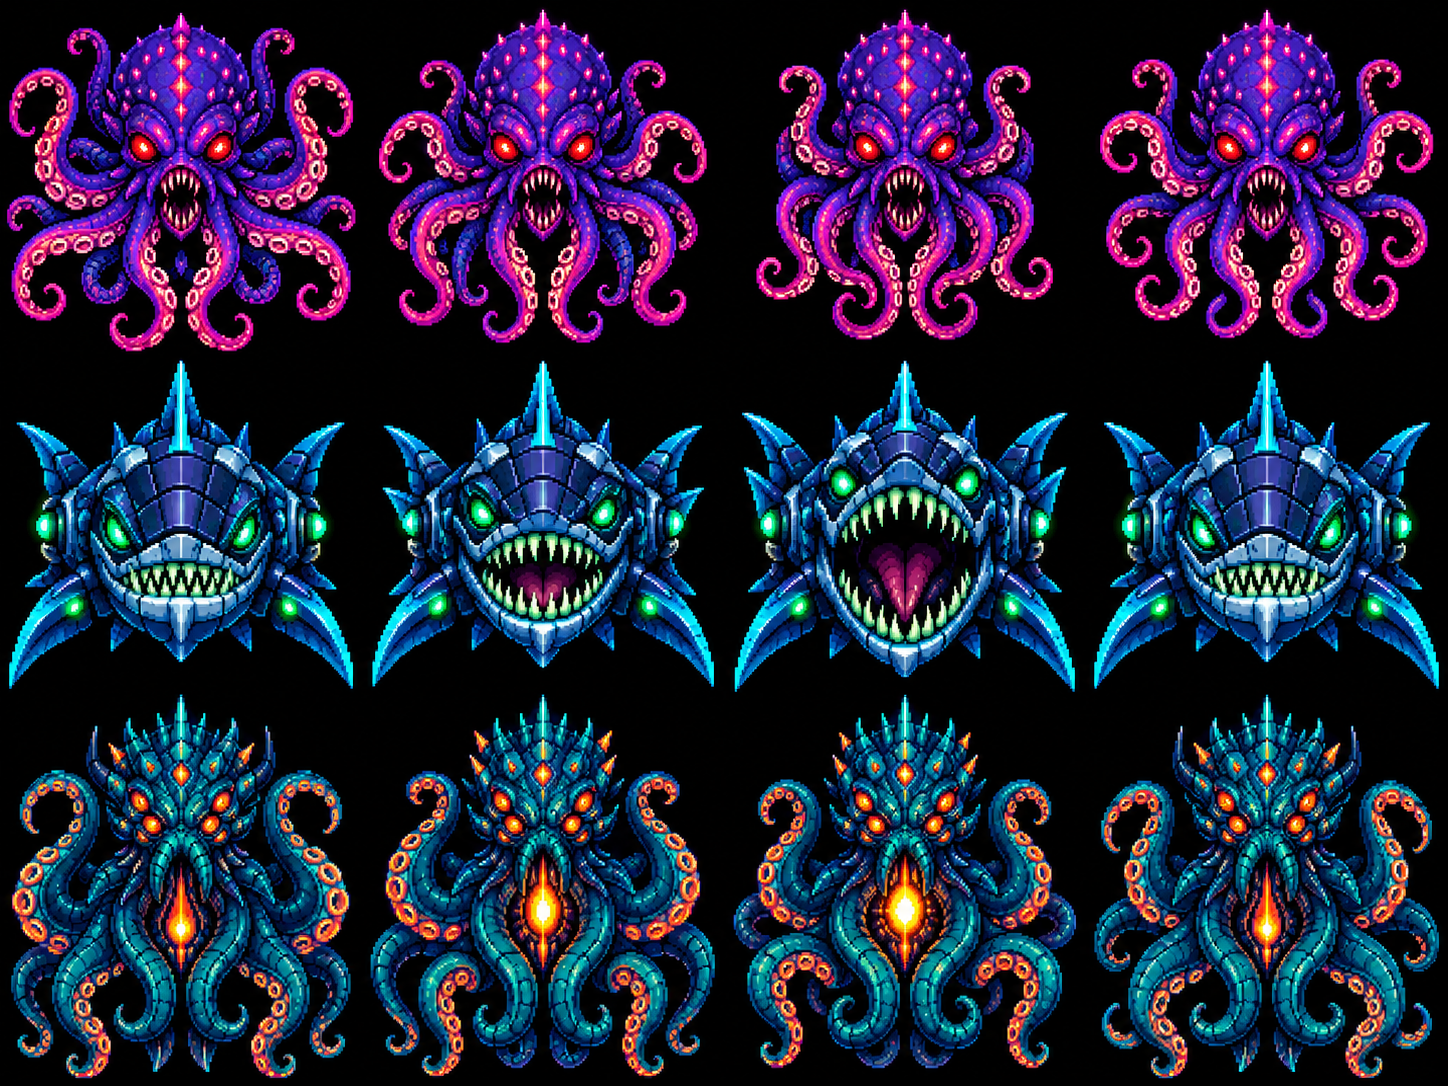
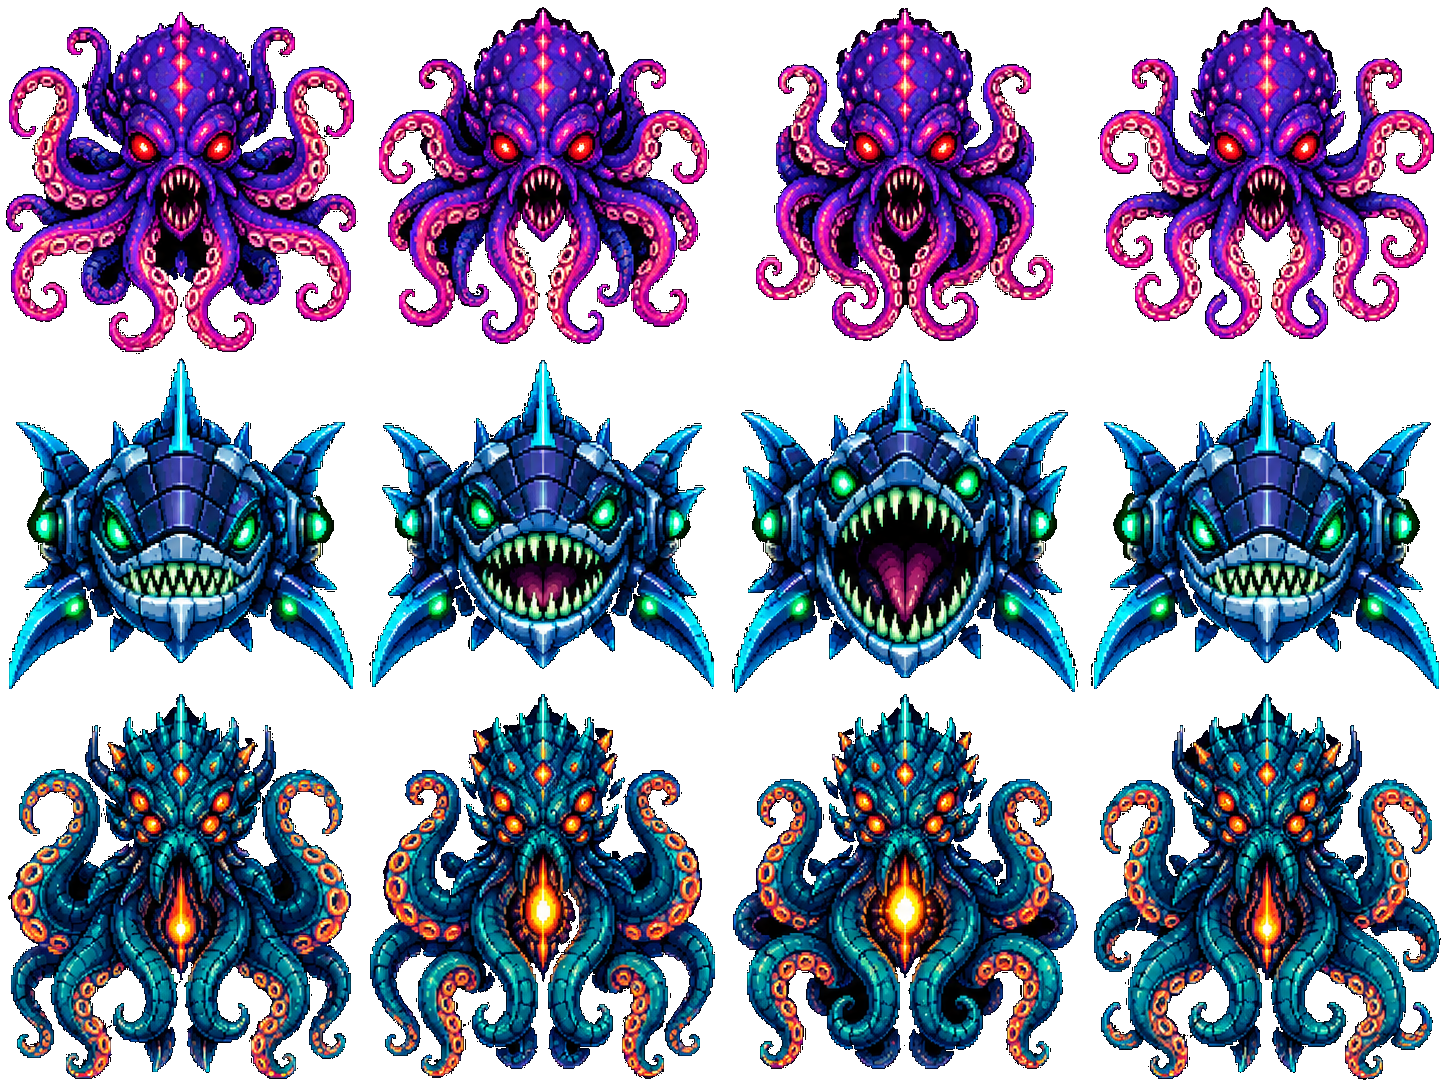
abyss-qwen: recrop all sprites with flood-fill transparency + name_anim convention
- Made 4 sprite sheets transparent via flood-fill from edges (tol 10),
  preserving black inside sprite shapes
- Re-cropped bosses/enemies/player/powerups using the new
  <name>_<anim>_fN.png convention (boss_octopus, enemy_pufferfish, etc.)
- Removed old no-prefix frame files
- Updated index.html sprite prefixes to match the new filenames
- Recorded crop bboxes to state JSON and re-rendered the editor

diff --git a/.squid-os/sprite-gen/editor-abyss-qwen.html b/.squid-os/sprite-gen/editor-abyss-qwen.html
@@ -359,7 +359,7 @@
   <footer class="helpFoot">Click anywhere or press Escape to close · Shortcuts stay inactive while typing</footer>
 </dialog>
 <script>
-const MANIFEST = {"labels": [{"name": "enemies", "entities": [{"name": "pufferfish_idle", "char": "pufferfish", "anim": "idle", "frames": ["../../abyss-qwen/assets/enemies/pufferfish_f1.png", "../../abyss-qwen/assets/enemies/pufferfish_f2.png", "../../abyss-qwen/assets/enemies/pufferfish_f3.png", "../../abyss-qwen/assets/enemies/pufferfish_f4.png"], "crops": [null, null, null, null]}, {"name": "mantis_crab_idle", "char": "mantis_crab", "anim": "idle", "frames": ["../../abyss-qwen/assets/enemies/mantis_crab_f1.png", "../../abyss-qwen/assets/enemies/mantis_crab_f2.png", "../../abyss-qwen/assets/enemies/mantis_crab_f3.png", "../../abyss-qwen/assets/enemies/mantis_crab_f4.png"], "crops": [null, null, null, null]}, {"name": "jellyfish_idle", "char": "jellyfish", "anim": "idle", "frames": ["../../abyss-qwen/assets/enemies/jellyfish_f1.png", "../../abyss-qwen/assets/enemies/jellyfish_f2.png", "../../abyss-qwen/assets/enemies/jellyfish_f3.png", "../../abyss-qwen/assets/enemies/jellyfish_f4.png"], "crops": [null, null, null, null]}, {"name": "anglerfish_idle", "char": "anglerfish", "anim": "idle", "frames": ["../../abyss-qwen/assets/enemies/anglerfish_f1.png", "../../abyss-qwen/assets/enemies/anglerfish_f2.png", "../../abyss-qwen/assets/enemies/anglerfish_f3.png", "../../abyss-qwen/assets/enemies/anglerfish_f4.png"], "crops": [null, null, null, null]}, {"name": "mech_shark_idle", "char": "mech_shark", "anim": "idle", "frames": ["../../abyss-qwen/assets/enemies/mech_shark_f1.png", "../../abyss-qwen/assets/enemies/mech_shark_f2.png", "../../abyss-qwen/assets/enemies/mech_shark_f3.png", "../../abyss-qwen/assets/enemies/mech_shark_f4.png"], "crops": [null, null, null, null]}, {"name": "sea_dragon_idle", "char": "sea_dragon", "anim": "idle", "frames": ["../../abyss-qwen/assets/enemies/sea_dragon_f1.png", "../../abyss-qwen/assets/enemies/sea_dragon_f2.png", "../../abyss-qwen/assets/enemies/sea_dragon_f3.png", "../../abyss-qwen/assets/enemies/sea_dragon_f4.png"], "crops": [null, null, null, null]}]}, {"name": "bosses", "entities": [{"name": "octopus_idle", "char": "octopus", "anim": "idle", "frames": ["../../abyss-qwen/assets/bosses/octopus_f1.png", "../../abyss-qwen/assets/bosses/octopus_f2.png", "../../abyss-qwen/assets/bosses/octopus_f3.png", "../../abyss-qwen/assets/bosses/octopus_f4.png"], "crops": [null, null, null, null]}, {"name": "megalodon_idle", "char": "megalodon", "anim": "idle", "frames": ["../../abyss-qwen/assets/bosses/megalodon_f1.png", "../../abyss-qwen/assets/bosses/megalodon_f2.png", "../../abyss-qwen/assets/bosses/megalodon_f3.png", "../../abyss-qwen/assets/bosses/megalodon_f4.png"], "crops": [null, null, null, null]}, {"name": "kraken_idle", "char": "kraken", "anim": "idle", "frames": ["../../abyss-qwen/assets/bosses/kraken_f1.png", "../../abyss-qwen/assets/bosses/kraken_f2.png", "../../abyss-qwen/assets/bosses/kraken_f3.png", "../../abyss-qwen/assets/bosses/kraken_f4.png"], "crops": [null, null, null, null]}]}, {"name": "powerups", "entities": [{"name": "shield_idle", "char": "shield", "anim": "idle", "frames": ["../../abyss-qwen/assets/powerups/shield_f1.png", "../../abyss-qwen/assets/powerups/shield_f2.png", "../../abyss-qwen/assets/powerups/shield_f3.png", "../../abyss-qwen/assets/powerups/shield_f4.png"], "crops": [null, null, null, null]}, {"name": "triple_shot_idle", "char": "triple_shot", "anim": "idle", "frames": ["../../abyss-qwen/assets/powerups/triple_shot_f1.png", "../../abyss-qwen/assets/powerups/triple_shot_f2.png", "../../abyss-qwen/assets/powerups/triple_shot_f3.png", "../../abyss-qwen/assets/powerups/triple_shot_f4.png"], "crops": [null, null, null, null]}, {"name": "slow_mo_idle", "char": "slow_mo", "anim": "idle", "frames": ["../../abyss-qwen/assets/powerups/slow_mo_f1.png", "../../abyss-qwen/assets/powerups/slow_mo_f2.png", "../../abyss-qwen/assets/powerups/slow_mo_f3.png", "../../abyss-qwen/assets/powerups/slow_mo_f4.png"], "crops": [null, null, null, null]}, {"name": "bomb_idle", "char": "bomb", "anim": "idle", "frames": ["../../abyss-qwen/assets/powerups/bomb_f1.png", "../../abyss-qwen/assets/powerups/bomb_f2.png", "../../abyss-qwen/assets/powerups/bomb_f3.png", "../../abyss-qwen/assets/powerups/bomb_f4.png"], "crops": [null, null, null, null]}]}, {"name": "player", "entities": [{"name": "manta_ray_idle", "char": "manta_ray", "anim": "idle", "frames": ["../../abyss-qwen/assets/player/manta_ray_f1.png", "../../abyss-qwen/assets/player/manta_ray_f2.png", "../../abyss-qwen/assets/player/manta_ray_f3.png", "../../abyss-qwen/assets/player/manta_ray_f4.png"], "crops": [null, null, null, null]}]}, {"name": "hud", "entities": [{"name": "splash_", "char": "splash", "anim": "", "frames": ["../../abyss-qwen/assets/hud/splash_f1.png"], "crops": [null]}, {"name": "background_", "char": "background", "anim": "", "frames": ["../../abyss-qwen/assets/hud/background_f1.png"], "crops": [null]}]}]};
+const MANIFEST = {"labels": [{"name": "enemies", "entities": [{"name": "enemy_pufferfish", "char": "enemy", "anim": "pufferfish", "frames": ["../../abyss-qwen/assets/enemies/enemy_pufferfish_f1.png", "../../abyss-qwen/assets/enemies/enemy_pufferfish_f2.png", "../../abyss-qwen/assets/enemies/enemy_pufferfish_f3.png", "../../abyss-qwen/assets/enemies/enemy_pufferfish_f4.png"], "crops": [[36, 54, 182, 165], [280, 31, 208, 201], [533, 11, 214, 233], [797, 35, 198, 193]]}, {"name": "enemy_mantis_crab", "char": "enemy", "anim": "mantis_crab", "frames": ["../../abyss-qwen/assets/enemies/enemy_mantis_crab_f1.png", "../../abyss-qwen/assets/enemies/enemy_mantis_crab_f2.png", "../../abyss-qwen/assets/enemies/enemy_mantis_crab_f3.png", "../../abyss-qwen/assets/enemies/enemy_mantis_crab_f4.png"], "crops": [[6, 266, 246, 240], [279, 267, 209, 251], [533, 267, 214, 201], [773, 268, 245, 204]]}, {"name": "enemy_jellyfish", "char": "enemy", "anim": "jellyfish", "frames": ["../../abyss-qwen/assets/enemies/enemy_jellyfish_f1.png", "../../abyss-qwen/assets/enemies/enemy_jellyfish_f2.png", "../../abyss-qwen/assets/enemies/enemy_jellyfish_f3.png", "../../abyss-qwen/assets/enemies/enemy_jellyfish_f4.png"], "crops": [[21, 481, 184, 262], [305, 485, 179, 250], [564, 484, 152, 265], [819, 481, 188, 262]]}, {"name": "enemy_anglerfish", "char": "enemy", "anim": "anglerfish", "frames": ["../../abyss-qwen/assets/enemies/enemy_anglerfish_f1.png", "../../abyss-qwen/assets/enemies/enemy_anglerfish_f2.png", "../../abyss-qwen/assets/enemies/enemy_anglerfish_f3.png", "../../abyss-qwen/assets/enemies/enemy_anglerfish_f4.png"], "crops": [[21, 751, 227, 222], [276, 759, 208, 217], [531, 764, 226, 208], [788, 751, 226, 222]]}, {"name": "enemy_mech_shark", "char": "enemy", "anim": "mech_shark", "frames": ["../../abyss-qwen/assets/enemies/enemy_mech_shark_f1.png", "../../abyss-qwen/assets/enemies/enemy_mech_shark_f2.png", "../../abyss-qwen/assets/enemies/enemy_mech_shark_f3.png", "../../abyss-qwen/assets/enemies/enemy_mech_shark_f4.png"], "crops": [[10, 988, 237, 223], [266, 988, 236, 220], [522, 988, 238, 221], [777, 988, 237, 223]]}, {"name": "enemy_sea_dragon", "char": "enemy", "anim": "sea_dragon", "frames": ["../../abyss-qwen/assets/enemies/enemy_sea_dragon_f1.png", "../../abyss-qwen/assets/enemies/enemy_sea_dragon_f2.png", "../../abyss-qwen/assets/enemies/enemy_sea_dragon_f3.png", "../../abyss-qwen/assets/enemies/enemy_sea_dragon_f4.png"], "crops": [[9, 1237, 238, 284], [266, 1227, 237, 298], [524, 1227, 232, 297], [777, 1237, 238, 287]]}]}, {"name": "bosses", "entities": [{"name": "boss_octopus", "char": "boss", "anim": "octopus", "frames": ["../../abyss-qwen/assets/bosses/boss_octopus_f1.png", "../../abyss-qwen/assets/bosses/boss_octopus_f2.png", "../../abyss-qwen/assets/bosses/boss_octopus_f3.png", "../../abyss-qwen/assets/bosses/boss_octopus_f4.png"], "crops": [[2, 8, 358, 348], [375, 3, 338, 345], [752, 4, 305, 341], [1096, 3, 342, 340]]}, {"name": "boss_shark", "char": "boss", "anim": "shark", "frames": ["../../abyss-qwen/assets/bosses/boss_shark_f1.png", "../../abyss-qwen/assets/bosses/boss_shark_f2.png", "../../abyss-qwen/assets/bosses/boss_shark_f3.png", "../../abyss-qwen/assets/bosses/boss_shark_f4.png"], "crops": [[5, 354, 353, 377], [365, 356, 353, 374], [728, 356, 354, 374], [1087, 356, 356, 375]]}, {"name": "boss_kraken", "char": "boss", "anim": "kraken", "frames": ["../../abyss-qwen/assets/bosses/boss_kraken_f1.png", "../../abyss-qwen/assets/bosses/boss_kraken_f2.png", "../../abyss-qwen/assets/bosses/boss_kraken_f3.png", "../../abyss-qwen/assets/bosses/boss_kraken_f4.png"], "crops": [[4, 690, 351, 393], [366, 690, 353, 393], [729, 690, 353, 383], [1090, 690, 355, 394]]}]}, {"name": "powerups", "entities": [{"name": "powerup_shield", "char": "powerup", "anim": "shield", "frames": ["../../abyss-qwen/assets/powerups/powerup_shield_f1.png", "../../abyss-qwen/assets/powerups/powerup_shield_f2.png", "../../abyss-qwen/assets/powerups/powerup_shield_f3.png", "../../abyss-qwen/assets/powerups/powerup_shield_f4.png"], "crops": [[2, 58, 308, 227], [321, 93, 296, 164], [637, 125, 293, 100], [949, 93, 294, 164]]}, {"name": "powerup_triple_shot", "char": "powerup", "anim": "triple_shot", "frames": ["../../abyss-qwen/assets/powerups/powerup_triple_shot_f1.png", "../../abyss-qwen/assets/powerups/powerup_triple_shot_f2.png", "../../abyss-qwen/assets/powerups/powerup_triple_shot_f3.png", "../../abyss-qwen/assets/powerups/powerup_triple_shot_f4.png"], "crops": [[2, 341, 308, 223], [323, 371, 294, 165], [636, 407, 294, 99], [949, 371, 293, 165]]}, {"name": "powerup_slow_mo", "char": "powerup", "anim": "slow_mo", "frames": ["../../abyss-qwen/assets/powerups/powerup_slow_mo_f1.png", "../../abyss-qwen/assets/powerups/powerup_slow_mo_f2.png", "../../abyss-qwen/assets/powerups/powerup_slow_mo_f3.png", "../../abyss-qwen/assets/powerups/powerup_slow_mo_f4.png"], "crops": [[0, 632, 310, 308], [323, 661, 294, 286], [637, 698, 293, 99], [949, 661, 293, 286]]}, {"name": "powerup_bomb", "char": "powerup", "anim": "bomb", "frames": ["../../abyss-qwen/assets/powerups/powerup_bomb_f1.png", "../../abyss-qwen/assets/powerups/powerup_bomb_f2.png", "../../abyss-qwen/assets/powerups/powerup_bomb_f3.png", "../../abyss-qwen/assets/powerups/powerup_bomb_f4.png"], "crops": [[2, 911, 308, 220], [323, 938, 294, 168], [637, 978, 293, 97], [949, 938, 294, 168]]}]}, {"name": "player", "entities": [{"name": "player_manta_ray", "char": "player", "anim": "manta_ray", "frames": ["../../abyss-qwen/assets/player/player_manta_ray_f1.png", "../../abyss-qwen/assets/player/player_manta_ray_f2.png", "../../abyss-qwen/assets/player/player_manta_ray_f3.png", "../../abyss-qwen/assets/player/player_manta_ray_f4.png"], "crops": [[0, 99, 560, 531], [584, 85, 510, 545], [1221, 84, 318, 546], [1657, 99, 509, 531]]}]}, {"name": "hud", "entities": [{"name": "splash_", "char": "splash", "anim": "", "frames": ["../../abyss-qwen/assets/hud/splash_f1.png"], "crops": [null]}, {"name": "background_", "char": "background", "anim": "", "frames": ["../../abyss-qwen/assets/hud/background_f1.png"], "crops": [null]}]}]};
 const COL_COLL='#3ef0ff', COL_MELEE='#ff9d2e', COL_SCALE='#b47bff';
 // hex (#rrggbb) + alpha (0-1) -> rgba() string, for translucent fills
 function hexA(hex, a){
@@ -456,8 +456,65 @@ function loadState(){
   let data; try{ data = JSON.parse(raw); }catch(e){ return; }
   if (!data || data.v !== 1) return;
   _loadingState = true;   // suppress saves while restoring
-  // restore per-entity state (merge over defaults when an entity is loaded)
+
+  // --- Migrate renamed entity keys ---
+  // When an entity is renamed in state.json (e.g. special → supermove), the old
+  // localStorage key won't match the new manifest name. We detect stale keys by
+  // checking if any manifest entity's frames match the saved frames after a
+  // simple rename substitution. If matched, adopt under the new key.
+  const manifestNames = new Set();
+  MANIFEST.labels.forEach(lbl => lbl.entities.forEach(en => manifestNames.add(en.name)));
+
+  const migrated = {};
   for (const [name, saved] of Object.entries(data.entities||{})){
+    if (manifestNames.has(name)) {
+      migrated[name] = saved;
+    } else if (saved && Array.isArray(saved.frames) && saved.frames.length > 0) {
+      // Stale key — try to find which manifest entity this belongs to by
+      // substituting known renames in the frame filenames and checking if
+      // any resulting name exists in the manifest's frame lists.
+      const RENAME_MAP = [['_special_', '_supermove_']];
+      let adopted = false;
+      outer: for (const lbl of MANIFEST.labels){
+        for (const en of lbl.entities){
+          if (migrated[en.name]) continue;
+          const manifestFiles = new Set((en.frames||[]).map(f => f.split('/').pop()));
+          for (const f of saved.frames){
+            const base = (f.name||'').split('/').pop();
+            for (const [from, to] of RENAME_MAP){
+              const renamed = base.replace(from, to);
+              if (manifestFiles.has(renamed)){
+                // Adopt: store under the new manifest name, rename frames
+                const copy = JSON.parse(JSON.stringify(saved));
+                copy.frames.forEach(fr => {
+                  if (fr.name) fr.name = fr.name.replace(from, to);
+                  if (fr.crop && fr.crop.file) fr.crop.file = fr.crop.file.replace(from, to);
+                });
+                migrated[en.name] = copy;
+                console.log(`[migration] "${name}" → "${en.name}"`);
+                adopted = true;
+                break outer;
+              }
+            }
+          }
+        }
+      }
+      if (!adopted) migrated[name] = saved; // truly orphaned — keep as-is
+    } else {
+      migrated[name] = saved;
+    }
+  }
+  data.entities = migrated;
+  if (data.active && !manifestNames.has(data.active)){
+    // Fix active pointer with same rename logic
+    for (const [from, to] of [['_special', '_supermove']]){
+      if (data.active.includes(from)) { data.active = data.active.replace(from, to); break; }
+    }
+  }
+  localStorage.setItem(LS_KEY, JSON.stringify(data));
+
+  // restore per-entity state
+  for (const [name, saved] of Object.entries(data.entities)){
     if (saved && Array.isArray(saved.frames)) S.set(name, saved);
   }
   // restore global view
@@ -1951,6 +2008,7 @@ window.addEventListener('keydown', e=>{
 // ---------- init ----------
 _loadingState = true;   // suppress saves during the entire init/restore sequence
 $('zoomval').textContent = Math.round(zoom*100)+'%';
+
 loadState();          // restore per-entity state + view from localStorage (keeps guard ON)
 applySavedView();     // apply restored view (bg, play, toggles) to the UI — no save (guard on)
 syncToggles();   // set toolbar lit states from `show` BEFORE first paint (no flash)

diff --git a/abyss-qwen/index.html b/abyss-qwen/index.html
@@ -1113,30 +1113,30 @@ function loadPngSprite(name, dir, prefix, frameCount, scaleW) {
 }
 
 // Player + enemy sets (all 4-frame animations).
-loadPngSprite("player", "player", "manta_ray", 4, 56);
-loadPngSprite("bee", "enemies", "jellyfish", 4, 40);
-loadPngSprite("butterfly", "enemies", "pufferfish", 4, 44);
-loadPngSprite("fighter", "enemies", "sea_dragon", 4, 48);
-loadPngSprite("shooter", "enemies", "anglerfish", 4, 42);
-loadPngSprite("brute", "enemies", "mantis_crab", 4, 46);
-loadPngSprite("raider", "enemies", "mech_shark", 4, 50);
+loadPngSprite("player", "player", "player_manta_ray", 4, 56);
+loadPngSprite("bee", "enemies", "enemy_jellyfish", 4, 40);
+loadPngSprite("butterfly", "enemies", "enemy_pufferfish", 4, 44);
+loadPngSprite("fighter", "enemies", "enemy_sea_dragon", 4, 48);
+loadPngSprite("shooter", "enemies", "enemy_anglerfish", 4, 42);
+loadPngSprite("brute", "enemies", "enemy_mantis_crab", 4, 46);
+loadPngSprite("raider", "enemies", "enemy_mech_shark", 4, 50);
 
 // Power-up pickups (4-frame animations).
-loadPngSprite("pu_shield", "powerups", "shield", 4, 34);
-loadPngSprite("pu_triple", "powerups", "triple_shot", 4, 34);
-loadPngSprite("pu_slow", "powerups", "slow_mo", 4, 34);
-loadPngSprite("pu_bomb", "powerups", "bomb", 4, 34);
+loadPngSprite("pu_shield", "powerups", "powerup_shield", 4, 34);
+loadPngSprite("pu_triple", "powerups", "powerup_triple_shot", 4, 34);
+loadPngSprite("pu_slow", "powerups", "powerup_slow_mo", 4, 34);
+loadPngSprite("pu_bomb", "powerups", "powerup_bomb", 4, 34);
 
 /**
  * Boss roster — cycled in order on every 4th wave.
  *   wave 4 -> octopus, 8 -> megalodon, 12 -> kraken, 16 -> octopus, ...
  */
 const BOSS_ROSTER = [
-  { name: "octopus",   sprite: "boss_octopus",   hp: 10, points: 5000, fireRate: 0.8, scaleW: 130 },
-  { name: "megalodon", sprite: "boss_megalodon", hp: 14, points: 7500, fireRate: 0.65, scaleW: 150 },
-  { name: "kraken",    sprite: "boss_kraken",    hp: 18, points: 10000, fireRate: 0.5, scaleW: 130 },
+  { name: "octopus",   sprite: "boss_octopus",   prefix: "boss_octopus",   hp: 10, points: 5000, fireRate: 0.8, scaleW: 130 },
+  { name: "megalodon", sprite: "boss_megalodon", prefix: "boss_shark",     hp: 14, points: 7500, fireRate: 0.65, scaleW: 150 },
+  { name: "kraken",    sprite: "boss_kraken",    prefix: "boss_kraken",    hp: 18, points: 10000, fireRate: 0.5, scaleW: 130 },
 ];
-BOSS_ROSTER.forEach((b) => loadPngSprite(b.sprite, "bosses", b.name, 4, b.scaleW));
+BOSS_ROSTER.forEach((b) => loadPngSprite(b.sprite, "bosses", b.prefix, 4, b.scaleW));
 
 /**
  * Draw a PNG sprite centered on (cx, cy), scaled so its width matches `scaleW`.
